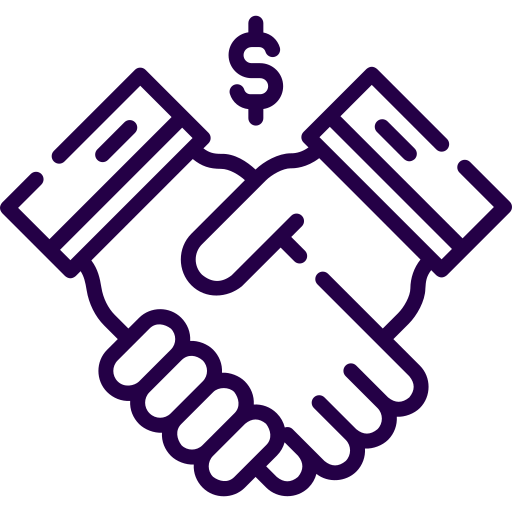
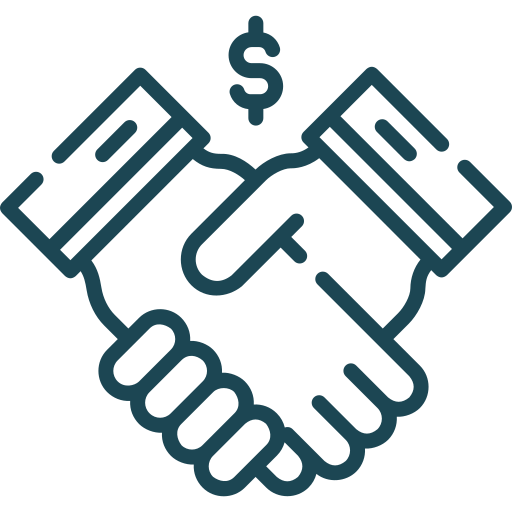
Retoques en CSS y actualizadas imagenes

Changed region(s): [[0.0, 0.125, 1.0, 0.9688], [0.4375, 0.0312, 0.5625, 0.25]]

diff --git a/src/app/shared/components/filters/filters.component.html b/src/app/shared/components/filters/filters.component.html
@@ -13,14 +13,14 @@
         <div class="w-full md:w-1/5 overflow-y-auto max-h-40">
             <label class="block text-gray-700 font-semibold mb-2">Salario Mínimo</label>
             <input type="number" class="w-full p-2 border border-gray-300 rounded focus:ring-[#240046] focus:border-[#240046]" 
-                   placeholder="Precio Minimo" [(ngModel)]="salary_min" min="0" step="5" (input)="filter_jobs()">
+                placeholder="Precio Minimo" [(ngModel)]="salary_min" min="0" step="5" (input)="filter_jobs()">
         </div>
         
         <!-- Filtro por salario máximo con scrollbar -->
         <div class="w-full md:w-1/5 overflow-y-auto max-h-40">
             <label class="block text-gray-700 font-semibold mb-2">Salario Máximo</label>
             <input type="number" class="w-full p-2 border border-gray-300 rounded focus:ring-[#240046] focus:border-[#240046]" 
-                   placeholder="Precio Maximo" [(ngModel)]="salary_max" min="0" step="5" (input)="filter_jobs()">
+                placeholder="Precio Maximo" [(ngModel)]="salary_max" min="0" step="5" (input)="filter_jobs()">
         </div>
         
         <!-- <app-multi-range-slider 
@@ -30,12 +30,11 @@
         [maxprice]="maxPrice" 
         (minpriceChange)="updateMinPrice($event)" 
         (maxpriceChange)="updateMaxPrice($event)">
-      </app-multi-range-slider> -->
+        </app-multi-range-slider> -->
         
-         
         <!-- Botón de eliminar filtros -->
         <div class="w-full md:w-1/5 flex items-end">
-            <button type="button" class="bg-[#240046] text-white py-2 px-4 rounded hover:bg-purple-800 w-full" (click)="remove_filters()">
+            <button type="button" class="bg-color3 text-white py-2 px-4 rounded hover:bg-color4 w-full" (click)="remove_filters()">
                 Eliminar filtros
             </button>
         </div>

diff --git a/src/app/shared/components/card-category/card-category.component.html b/src/app/shared/components/card-category/card-category.component.html
@@ -1,12 +1,12 @@
 <a routerLink="/shop/categories/{{ categories.slug }}" class="block">
-    <div class="bg-white rounded-lg shadow-lg overflow-hidden w-80 mt-10 mb-10">
+    <div class="bg-white rounded-lg shadow-lg overflow-hidden w-80 mb-8">
         <a href="#">
             <div class="relative h-48">
                 <img [src]="'img_categories/'+ categories.image" alt="{{categories.category_name}}" class="mt-8 w-full h-full object-contain">
             </div>
         </a>
         <div class="p-6 text-center">
-            <h4 class="h-14 text-xl font-bold text-color9">{{categories.category_name}}</h4>
+            <h4 class="h-14 text-xl font-bold text-color3">{{categories.category_name}}</h4>
             <!-- <p class="text-gray-500">29 ofertas</p> -->
         </div>
     </div>

diff --git a/src/app/details/details.component.html b/src/app/details/details.component.html
@@ -1,4 +1,4 @@
-<div class="container mx-auto p-6 mt-20">
+<div class="container mx-auto p-6 mt-24">
     <!-- Mensaje si no hay job -->
     <div *ngIf="!job" class="text-center text-xl text-color8">No job found</div>
 
@@ -6,7 +6,7 @@
     <div class="bg-white rounded-lg shadow-lg p-6" *ngIf="job">
         <!-- Información del trabajo -->
         <div class="mb-4">
-            <h3 class="text-2xl font-bold text-color7">{{ job.name }}</h3>
+            <h3 class="text-2xl font-bold text-color1">{{ job.name }}</h3>
         </div>
         <div class="space-y-4 text-color8">
             <div class="description">

diff --git a/tailwind.config.js b/tailwind.config.js
@@ -12,7 +12,7 @@ module.exports = {
       colors: {
         customPurple: '#625D7E',
         color1: '#264653', // verde charcoal PRINCIPAL
-        color2: '#2A9D8F', // verde persian SECUNDARIO
+        color2: '#39A296', // verde persian SECUNDARIO
         color3: '#89D2CA', // azul tiffany FOCUS
         color4: '#E9C46A', // naranja saffron HOVERS
         color5: '#89D2CA', // azul tiffany BUTTONS

diff --git a/src/app/shared/components/carousel-items/carousel-items.component.css b/src/app/shared/components/carousel-items/carousel-items.component.css
@@ -8,13 +8,13 @@
     opacity: 1;
 }
 
-img {
+/* img {
     opacity: 0.8;
-    filter: hue-rotate(0deg) saturate(0%) brightness(95%);
-}
+    filter: hue-rotate(197deg) saturate(37%) brightness(24%);
+} */
 
 .targeta:hover img {
-    opacity: 0.1;
+    opacity: 0.05;
     filter: blur(1px) hue-rotate(0deg) saturate(0%) brightness(95%);
     transition: filter 0.3s ease, opacity 0.3s ease; 
 }

diff --git a/src/app/shared/components/list-categories/list-categories.component.html b/src/app/shared/components/list-categories/list-categories.component.html
@@ -1,5 +1,5 @@
 <div
-class="categorias grid grid-cols-1 sm:grid-cols-2 md:grid-cols-3 lg:grid-cols-4 gap-4"
+class="categorias grid grid-cols-1 sm:grid-cols-2 md:grid-cols-3 lg:grid-cols-4 gap-4 mt-12 mb-4"
 infiniteScroll
 [infiniteScrollDistance]="1"
 [infiniteScrollThrottle]="50"

diff --git a/src/styles.css b/src/styles.css
@@ -1,9 +1,6 @@
 @tailwind base;
 @tailwind components;
 @tailwind utilities;
-@import "~@angular/material/prebuilt-themes/cyan-orange.css";
-
-
 
 /* Definir el color principal en Tailwind */
 :root {
